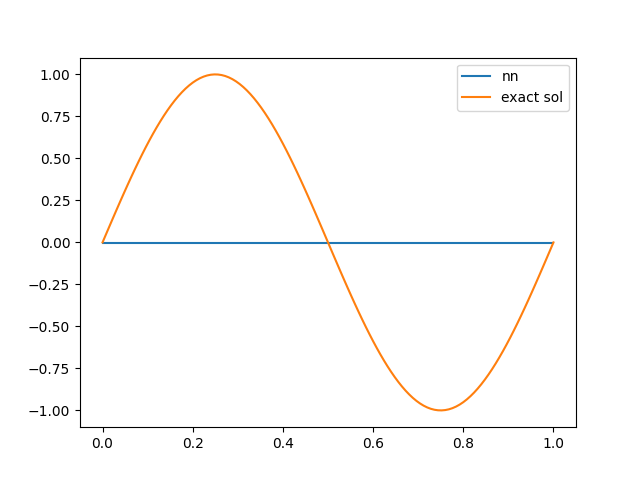
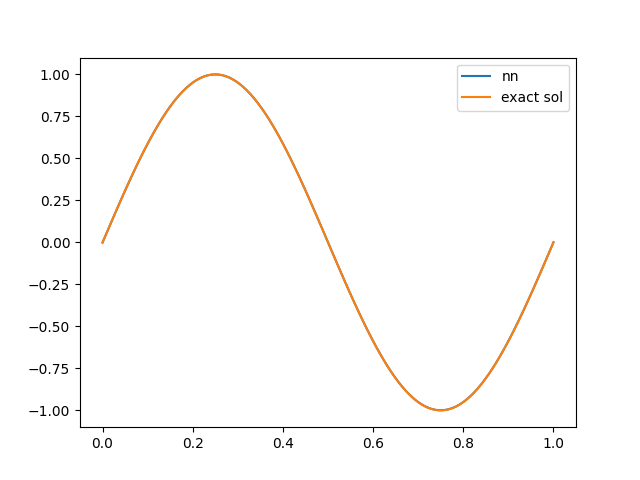
1D poisson problem added; also 2nd derivatives approach

Changed region(s): [[0.1562, 0.5, 0.875, 0.5312]]

diff --git a/Learning-Torch-3.py b/Learning-Torch-3.py
@@ -1,0 +1,104 @@
+import torch
+import torch.nn as nn
+import torch.optim as optim
+from torch.optim.lr_scheduler import StepLR
+from matplotlib import pyplot as plt
+
+class PINN(nn.Module):
+    def __init__(self, input_size, hidden_sizes, output_size, act=nn.ReLU(), device=torch.device("cpu")):
+        super(PINN, self).__init__()
+
+        self.layers = nn.ModuleList()
+        layer_sizes = [input_size] + hidden_sizes + [output_size]
+
+        for i in range(len(layer_sizes) - 1):
+            self.layers.append(nn.Linear(layer_sizes[i], layer_sizes[i+1]).to(device))
+
+        self.activation = act.to(device)
+        self.device = device
+
+    def forward(self, x):
+        for layer in self.layers[:-1]:
+            x = self.activation(layer(x))
+        output = self.layers[-1](x)
+        return output
+
+def random_domain_points(n):
+    x = torch.rand(n, 1, requires_grad=True)
+    return x
+
+if torch.cuda.is_available():
+    device = torch.device("cuda")
+    print('device:', device)
+else:
+    device = torch.device("cpu")
+    print('CUDA is not available. Using CPU.')
+
+pinn = PINN(1, [10, 50, 50, 50, 10], 1, act=torch.nn.Sigmoid(), device=device)
+print(pinn)
+
+learning_rate = 0.01
+optimizer = optim.Adam(pinn.parameters(), lr=learning_rate)
+scheduler = StepLR(optimizer, step_size=1000, gamma=0.1)  # Learning rate scheduler
+
+epochs = int(2e3)
+convergence_data = torch.empty((epochs), device=device)
+
+gamma1 = 100.
+loss_list = []
+
+try:
+    for epoch in range(epochs):
+        optimizer.zero_grad()  # Set gradients to zero
+
+        # Random domain points
+        x = random_domain_points(2048).to(device)
+        u = pinn(x)
+
+        # Compute derivatives
+        u_x = torch.autograd.grad(outputs=u, inputs=x, create_graph=True,
+                                  grad_outputs=torch.ones_like(u))[0]
+        u_xx = torch.autograd.grad(outputs=u_x, inputs=x, create_graph=True,
+                                   grad_outputs=torch.ones_like(u_x))[0]
+
+        # Compute the residual and loss in the domain
+        residual = -u_xx - 4.*(torch.pi**2)*torch.sin(2.*torch.pi*x)
+        loss_dom = torch.mean(torch.pow(residual, 2))
+
+        # Compute the loss at the boundary
+        x_bc = torch.tensor([[0.], [1.]], requires_grad=True).to(device)
+        u_bc = pinn(x_bc)
+        loss_bc = torch.mean(torch.pow(u_bc - 0., 2))
+
+        # Total loss
+        loss = loss_dom + gamma1 * loss_bc
+        loss_list.append(loss.item())
+
+        # Backpropagation and optimization
+        loss.backward()
+        optimizer.step()
+        scheduler.step()  # Update learning rate
+
+        convergence_data[epoch] = loss.item()
+
+        if epoch % 100 == 0:
+            print(f"Epoch: {epoch} - Loss: {loss.item():>7f} - Learning Rate: {scheduler.get_last_lr()[0]:>7f}")
+
+except KeyboardInterrupt:
+    pass
+
+plt.semilogy(loss_list)
+plt.savefig('loss_plot.png')
+
+x = torch.linspace(0, 1, 126).view(-1, 1).to(device)
+nn_sol = pinn(x).detach().cpu().numpy()
+
+plt.figure()
+plt.plot(x.cpu().numpy(), nn_sol, label='nn')
+exact_sol = torch.sin(2.*torch.pi*x).cpu().numpy()
+plt.plot(x.cpu().numpy(), exact_sol, label='exact sol')
+plt.ylim(-1.1, 1.1)
+plt.legend()
+plt.savefig('exact_plot.png')
+
+print('Plots saved successfully.')

diff --git a/Learning-Torch-2.py b/Learning-Torch-2.py
@@ -1,0 +1,33 @@
+import torch
+import torch.nn as nn
+
+class Model(nn.Module):
+    def __init__(self, a, b, c):
+        super(Model, self).__init__()
+        self.a = nn.Parameter(torch.tensor(a, dtype=torch.float32))
+        self.b = nn.Parameter(torch.tensor(b, dtype=torch.float32))
+        self.c = nn.Parameter(torch.tensor(c, dtype=torch.float32))
+
+    def forward(self, x, y):
+        output = (self.a * x + self.b * y + self.c) ** 2
+        return output
+
+a = 2.0  # Value of a
+b = 1.0  # Value of b
+c = 0.5  # Value of c
+
+model = Model(a, b, c)
+
+x = torch.tensor([1.0], dtype=torch.float32, requires_grad=True)
+y = torch.tensor([0.1], dtype=torch.float32, requires_grad=True)
+
+u = model(x, y)
+
+# Compute derivatives
+grads = torch.autograd.grad(u, (x, y), create_graph=True)
+u_xx = torch.autograd.grad(grads[0], x)[0]
+
+expected_u_xx = 2 * a**2  # Expected second derivative
+
+print("Computed u_xx:", u_xx.item())
+print("Expected u_xx:", expected_u_xx)
